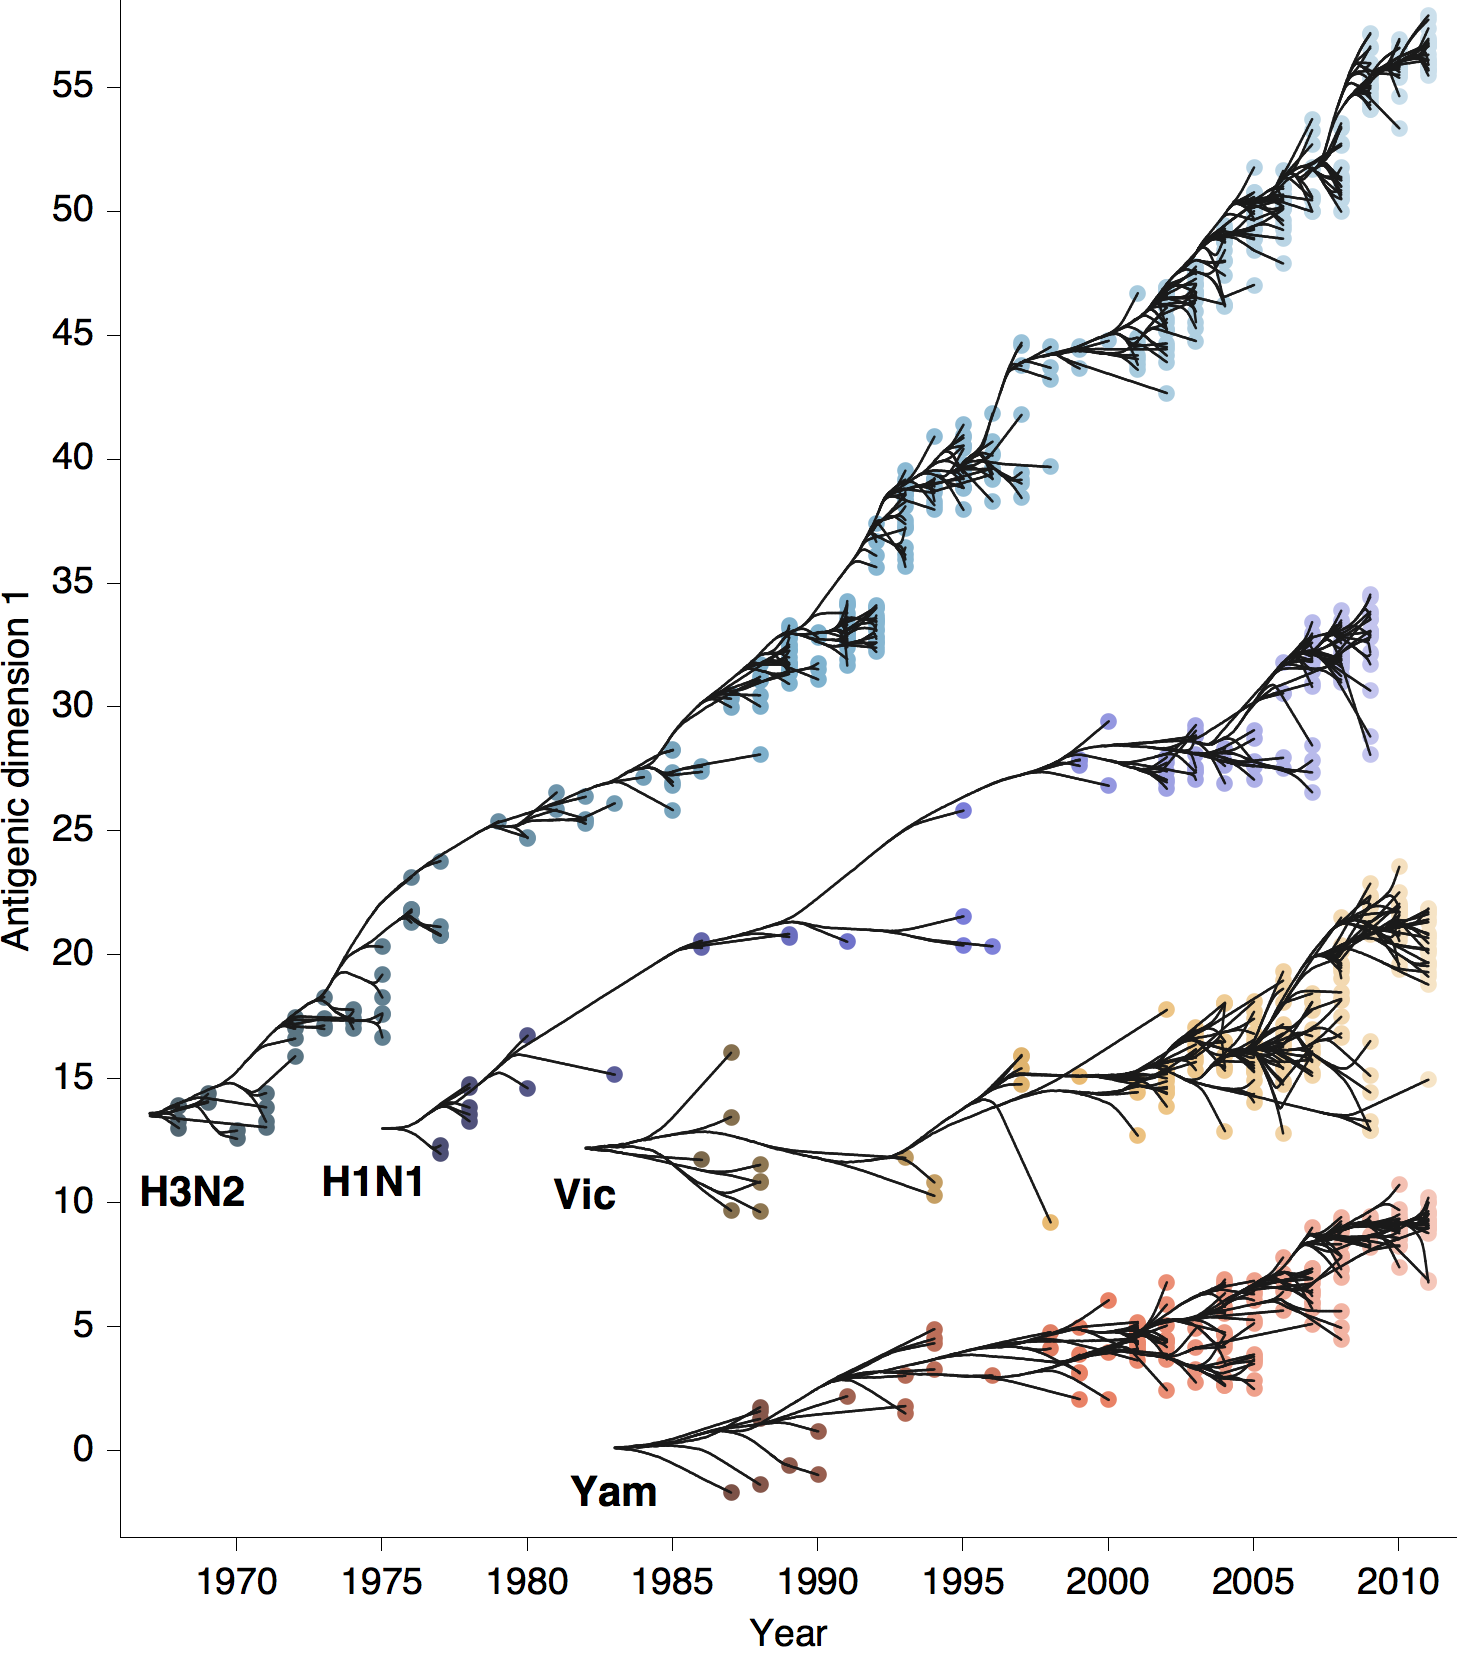
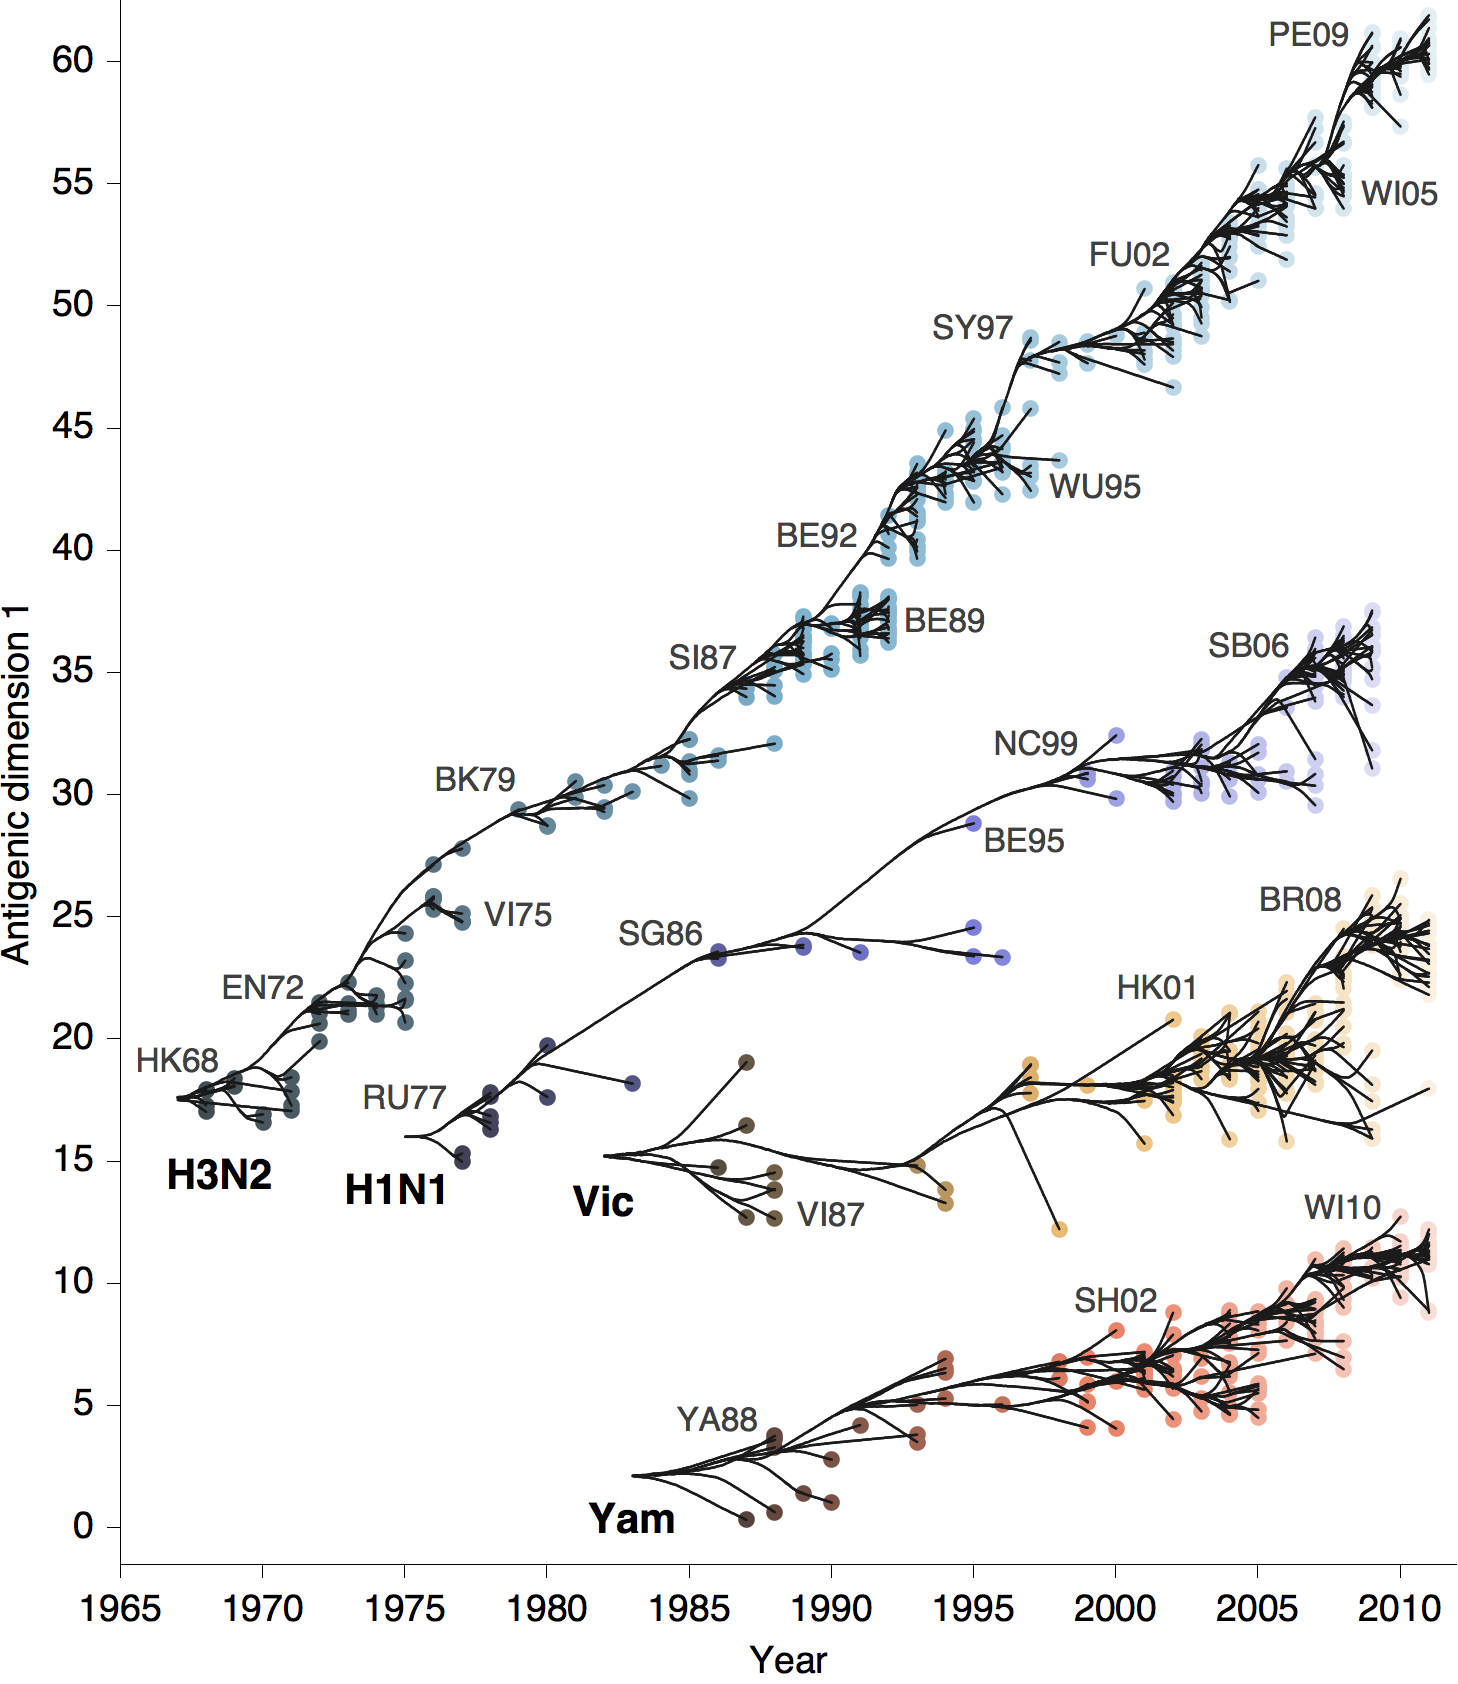
Annotate drift figure with cluster labels.

diff --git a/flux.tex b/flux.tex
@@ -240,8 +240,7 @@ This analysis makes the fate of antigenic clusters obvious, with two clusters in
 	Antigenic units represent two-fold dilutions of the HI assay.
 	Absolute positioning of lineages, e.g.\ A/H3N2 and A/H1N1, is arbitrary.
 	Lines represent mean posterior diffusion paths when virus locations are fixed.
-	Antigenic clusters are labeled after vaccine strains present within clusters.
-	Abbreviated strains are as follows Hong Kong/68, England/72, Victoria/75, Bangkok/79, Sichuan/87, Beijing/89, Beijing/92, Wuhan/95, Sydney/97, Fujian/02, Wisconsin/05, Perth/09 (A/H3N2), USSR/77, Singapore/86, Beijing/95, New Caledonia/99, Solomon Islands/06 (H1N1), Victoria/87, Hong Kong/01, Brisbane/08 (Vic), Yamagata/88, Shanghai/02, Wisconsin/10 (Yam).} 
+	Antigenic clusters are labeled after vaccine strains present within clusters, and are abbreviated from Hong Kong/68, England/72, Victoria/75, Bangkok/79, Sichuan/87, Beijing/89, Beijing/92, Wuhan/95, Sydney/97, Fujian/02, Wisconsin/05, Perth/09 (A/H3N2), USSR/77, Singapore/86, Beijing/95, New Caledonia/99, Solomon Islands/06 (H1N1), Victoria/87, Hong Kong/01, Brisbane/08 (Vic), Yamagata/88, Shanghai/02, Wisconsin/10 (Yam).} 
 	\label{map} 
 \end{figure}
 
@@ -264,7 +263,8 @@ Most variation is contained within the first antigenic dimension, but dimension 
 	Circles represent a posterior sample of virus locations and have been shaded based on year of isolation.
 	Antigenic units represent two-fold dilutions of the HI assay.
 	Relative positioning of lineages, e.g.\ A/H3N2 and A/H1N1, in the vertical axis is arbitrary.
-	Lines represent mean posterior diffusion paths when virus locations are fixed.} 
+	Lines represent mean posterior diffusion paths when virus locations are fixed.
+	Antigenic clusters are labeled after vaccine strains present within clusters, and are abbreviated from Hong Kong/68, England/72, Victoria/75, Bangkok/79, Sichuan/87, Beijing/89, Beijing/92, Wuhan/95, Sydney/97, Fujian/02, Wisconsin/05, Perth/09 (A/H3N2), USSR/77, Singapore/86, Beijing/95, New Caledonia/99, Solomon Islands/06 (H1N1), Victoria/87, Hong Kong/01, Brisbane/08 (Vic), Yamagata/88, Shanghai/02, Wisconsin/10 (Yam).} 
 	\label{drift} 
 \end{figure}
 
